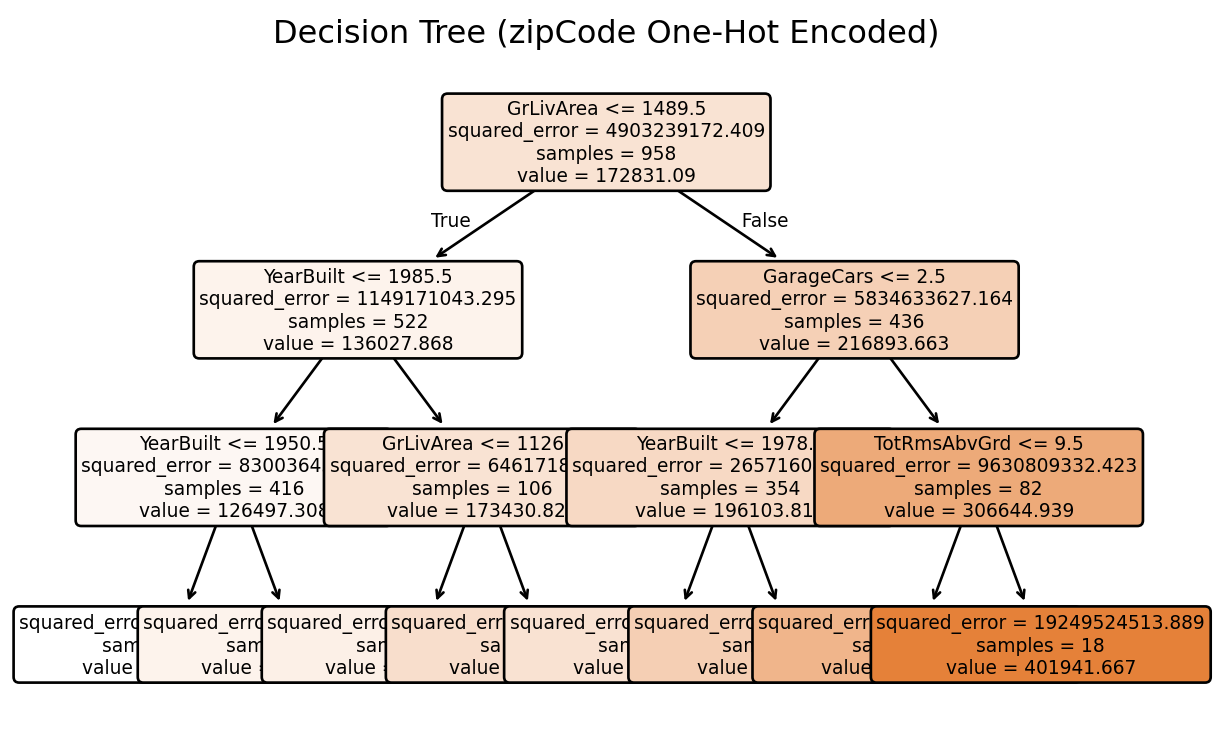
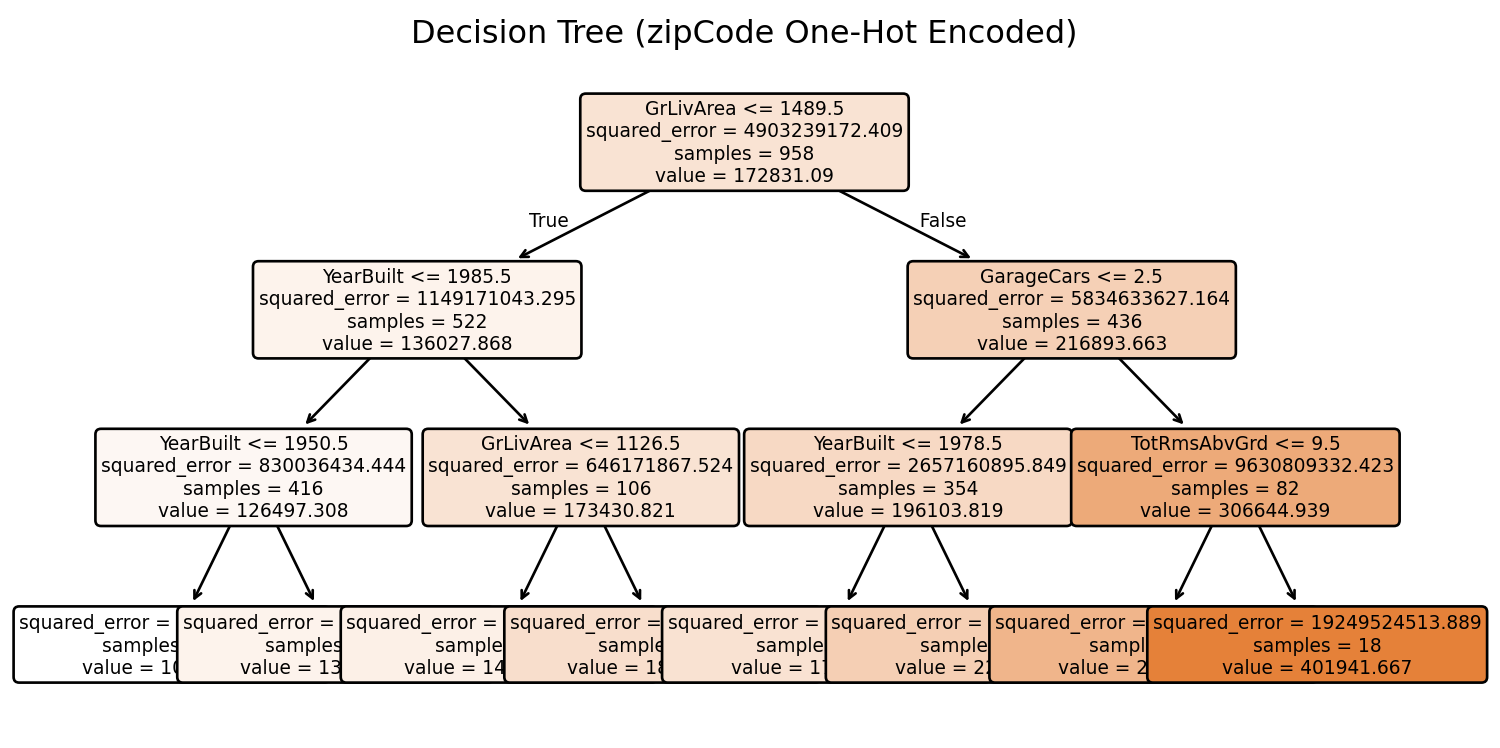
Update decision tree challenge with rendered output

Changed region(s): [[0.0, 0.123, 0.9935, 0.9225], [0.2173, 0.0307, 0.7761, 0.0615]]

diff --git a/index.html b/index.html
@@ -78,22 +78,6 @@ ul.task-list li input[type="checkbox"] {
 </blockquote>
 <p><strong>The Core Problem:</strong> Decision trees are often praised for their interpretability and ability to handle both numerical and categorical variables. But what happens when we encode categorical variables as numbers? How does this affect our understanding of feature importance?</p>
 <p><strong>What is Feature Importance?</strong> In decision trees, feature importance measures how much each variable contributes to reducing impurity (or improving prediction accuracy) across all splits in the tree. It’s a key metric for understanding which variables matter most for your predictions.</p>
-<div class="callout callout-style-default callout-important callout-titled">
-<div class="callout-header d-flex align-content-center">
-<div class="callout-icon-container">
-<i class="callout-icon"></i>
-</div>
-<div class="callout-title-container flex-fill">
-<span class="screen-reader-only">Important</span>🎯 The Key Insight: Encoding Matters for Interpretability
-</div>
-</div>
-<div class="callout-body-container callout-body">
-<p><strong>The problem:</strong> When we encode categorical variables as numerical values (like 1, 2, 3, 4…), decision trees treat them as if they have a meaningful numerical order. This can completely distort our analysis.</p>
-<p><strong>The Real-World Context:</strong> In real estate, we know that neighborhood quality, house style, and other categorical factors are crucial for predicting home prices. But if we encode these as numbers, we might get misleading insights about which features actually matter most.</p>
-<p><strong>The Devastating Reality:</strong> Even sophisticated machine learning models can give us completely wrong insights about feature importance if we don’t properly encode our variables. A categorical variable that should be among the most important might appear irrelevant, while a numerical variable might appear artificially important.</p>
-</div>
-</div>
-<p>Let’s assume we want to predict house prices and understand which features matter most. The key question is: <strong>How does encoding categorical variables as numbers affect our understanding of feature importance?</strong></p>
 </section>
 <section id="the-ames-housing-dataset" class="level2">
 <h2 class="anchored" data-anchor-id="the-ames-housing-dataset">The Ames Housing Dataset 🏠</h2>
@@ -123,7 +107,7 @@ ul.task-list li input[type="checkbox"] {
 <div class="cell-output cell-output-display">
 <div>
 <figure class="figure">
-<p><img src="index_files/figure-html/visualize-tree-python-output-1.png" id="visualize-tree-python" width="619" height="374" class="figure-img"></p>
+<p><img src="index_files/figure-html/visualize-tree-python-output-1.png" id="visualize-tree-python" width="757" height="374" class="figure-img"></p>
 </figure>
 </div>
 </div>
@@ -186,7 +170,7 @@ ul.task-list li input[type="checkbox"] {
 <div class="cell-output cell-output-display">
 <div>
 <figure class="figure">
-<p><img src="index_files/figure-html/visualize-tree-cat-python-output-1.png" id="visualize-tree-cat-python" width="612" height="374" class="figure-img"></p>
+<p><img src="index_files/figure-html/visualize-tree-cat-python-output-1.png" id="visualize-tree-cat-python" width="750" height="374" class="figure-img"></p>
 </figure>
 </div>
 </div>
@@ -206,33 +190,6 @@ ul.task-list li input[type="checkbox"] {
 </div>
 </div>
 </div>
-</section>
-</section>
-<section id="challenge-requirements" class="level2">
-<h2 class="anchored" data-anchor-id="challenge-requirements">Challenge Requirements 📋</h2>
-<section id="minimum-requirements-for-any-points-on-challenge" class="level3">
-<h3 class="anchored" data-anchor-id="minimum-requirements-for-any-points-on-challenge">Minimum Requirements for Any Points on Challenge</h3>
-<ol type="1">
-<li><p><strong>Create a GitHub Pages Site:</strong> Use the starter repository (see Repository Setup section below) to begin with a working template. The repository includes all the analysis code and visualizations above.</p></li>
-<li><p><strong>Add Discussion Narrative:</strong> Add your answers to the two discussion questions below in the Discussion Questions section of the rendered HTML.</p></li>
-<li><p><strong>GitHub Repository:</strong> Use your forked repository (from the starter repository) named “decTreeChallenge” in your GitHub account.</p></li>
-<li><p><strong>GitHub Pages Setup:</strong> The repository should be made the source of your github pages:</p>
-<ul>
-<li>Go to your repository settings (click the “Settings” tab in your GitHub repository)</li>
-<li>Scroll down to the “Pages” section in the left sidebar</li>
-<li>Under “Source”, select “Deploy from a branch”</li>
-<li>Choose “main” branch and “/ (root)” folder</li>
-<li>Click “Save”</li>
-<li>Your site will be available at: <code>https://[your-username].github.io/decTreeChallenge/</code></li>
-<li><strong>Note:</strong> It may take a few minutes for the site to become available after enabling Pages</li>
-</ul></li>
-</ol>
-</section>
-</section>
-<section id="getting-started-repository-setup" class="level2">
-<h2 class="anchored" data-anchor-id="getting-started-repository-setup">Getting Started: Repository Setup 🚀</h2>
-<section id="getting-started-tips" class="level3">
-<h3 class="anchored" data-anchor-id="getting-started-tips">Getting Started Tips</h3>
 </section>
 </section>
 <section id="discussion-questions-and-analysis" class="level2">
